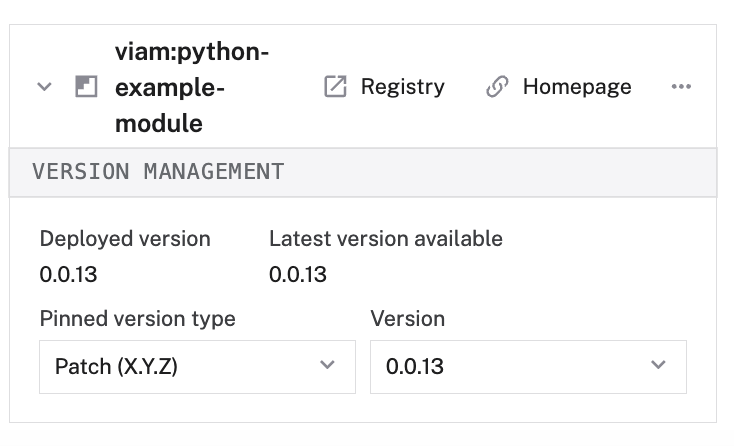
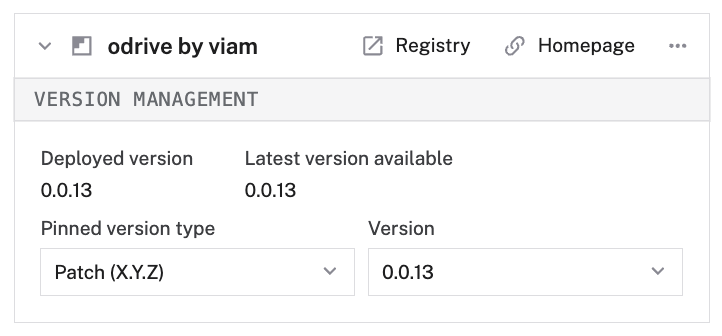
Improve modular resources configure docs

diff --git a/docs/registry/configure.md b/docs/registry/configure.md
@@ -71,18 +71,18 @@ If you are using a [rented Viam rover](/get-started/try-viam/), adding modules i
 To add a modular [component](/components/) from the Viam registry to your machine:
 
 1. Navigate to the **CONFIGURE** tab of your machine's page in [the Viam app](https://app.viam.com).
-2. Click the **+** icon next to your machine part in the left-hand menu and select **Component**.
+2. Click the **+** (Create) icon next to your machine part in the left-hand menu and select **Component**.
 3. Browse the list of available component types, and select the specific modular component you'd like to add.
 
-   {{<imgproc src="registry/configure/add-component-by-category.png" resize="400x" declaredimensions=true alt="The add a component modal showing results for the intel realsense module when searching by the category 'camera'">}}
+   {{<imgproc src="registry/configure/add-component-by-category.png" resize="500x" style="max-width: 400px" declaredimensions=true alt="The add a component modal showing results for the intel realsense module when searching by the category 'camera'">}}
 
    You can also start typing to search for a module by name or to narrow down your search results.
 
-   {{<imgproc src="registry/configure/add-component-by-name.png" resize="400x" declaredimensions=true alt="The add a component modal showing results for the intel realsense module when searching by the name 'realsense'">}}
+   {{<imgproc src="registry/configure/add-component-by-name.png" resize="500x" style="max-width: 400px" declaredimensions=true alt="The add a component modal showing results for the intel realsense module when searching by the name 'realsense'">}}
 
 4. After selecting the modular component, enter a name for your modular component and click **Create** to add it to your machine's component configuration.
 
-   {{<imgproc src="registry/configure/add-component-screen.png" resize="400x" declaredimensions=true alt="The add a component modal showing the intel realsense module pane, with the 'Add module' button shown">}}
+   {{<imgproc src="registry/configure/add-component-screen.png" resize="500x" style="max-width: 400px" declaredimensions=true alt="The add a component modal showing the intel realsense module pane, with the 'Add module' button shown">}}
 
    Be sure the modular component you select supports the [platform](/fleet/cli/#using-the---platform-argument) you intend to use it with, such as `linux arm64`.
    You can see which platforms the module supports at bottom of the module information screen before you add it.
@@ -93,7 +93,7 @@ If the component requires you to configure specific **Attributes**, navigate to 
 Click on the **...** menu and select **Go to homepage** to view the specific attribute requirements on the module's GitHub page.
 
 To delete a modular component, navigate to the component's card on the **CONFIGURE** tab.
-Click on the **...** and click **Delete**.
+Click on the **...** icon and click **Delete**.
 Confirm your selection.
 
 ### Add a modular service from the Viam registry
@@ -104,15 +104,15 @@ To add a modular [service](/services/) from the Viam registry to your machine:
 2. Click the **+** icon next to your machine part in the left-hand menu and select **Service**.
 3. Browse the list of available service types and select the specific modular service you'd like to add.
 
-   {{<imgproc src="registry/configure/add-service-by-category.png" resize="400x" declaredimensions=true alt="The add a component modal showing results for the mlmodelservice triton module when searching by the category 'ML Model'">}}
+   {{<imgproc src="registry/configure/add-service-by-category.png" resize="500x" style="max-width: 400px" declaredimensions=true alt="The add a component modal showing results for the mlmodelservice triton module when searching by the category 'ML Model'">}}
 
    You can also start typing to search for a module by name or to narrow down your search results.
 
-   {{<imgproc src="registry/configure/add-service-by-name.png" resize="400x" declaredimensions=true alt="The add a component modal showing results for the mlmodelservice triton module when searching by the name 'triton'">}}
+   {{<imgproc src="registry/configure/add-service-by-name.png" resize="500x" style="max-width: 400px" declaredimensions=true alt="The add a component modal showing results for the mlmodelservice triton module when searching by the name 'triton'">}}
 
 4. After selecting the modular service, enter a name for your modular service and click **Create** to add it to your machine's service configuration.
 
-   {{<imgproc src="registry/configure/add-service-screen.png" resize="400x" declaredimensions=true alt="The add a component modal showing the mlmodelservice triton module pane, with the 'Add module' button shown">}}
+   {{<imgproc src="registry/configure/add-service-screen.png" resize="500x" style="max-width: 400px" declaredimensions=true alt="The add a component modal showing the mlmodelservice triton module pane, with the 'Add module' button shown">}}
 
    Be sure the modular service you select supports the [platform](/fleet/cli/#using-the---platform-argument) you intend to use it with, such as `linux arm64`.
    You can see which platforms the module supports at bottom of the module information screen before you add it.
@@ -123,7 +123,7 @@ If the component requires you to configure specific **Attributes**, navigate to 
 Click on the **...** menu and select **Go to homepage** to view the specific attribute requirements on the module's GitHub page.
 
 To delete a modular service, navigate to the service's card on the **CONFIGURE** tab.
-Click on the **...** and click **Delete**.
+Click on the **...** menu and click **Delete**.
 Confirm your selection.
 
 ### Add additional modular resources from a registry module
@@ -133,7 +133,13 @@ Once you have [added a module](#add-a-modular-resource-from-the-viam-registry) f
 Follow the same steps as when you added the first modular resource, clicking **Create** and **Component** or **Service** as applicable.
 You will be prompted to click **Add module** again while configuring the resource, though no duplicate module will be added to the `modules` section of the configuration.
 
-If you prefer to use JSON, the following properties are available for modular resources:
+## Edit the configuration of a module from the Viam registry
+
+### Edit modular resources
+
+You can edit the configuration of the modular resource or resources you have added from your module at the card matching the `name` you gave the resource when adding on the **CONFIGURE** tab.
+
+If you prefer to use JSON, the following properties are available for all modular resources:
 
 <!-- prettier-ignore -->
 | Name | Type | Inclusion | Description |
@@ -209,18 +215,18 @@ The custom model is configured as a component with the name "my-realsense".
 {{% /tab %}}
 {{% /tabs %}}
 
-## Edit the configuration of a module from the Viam registry
+### Edit the module
 
-Once you have added a modular resource to your machine, you can view and edit the configuration of the underlying module from the **CONFIGURE** tab:
+You can also view and edit the configuration of their underlying module from the **CONFIGURE** tab:
 
 1. Navigate to the **CONFIGURE** tab of your machine's page in [the Viam app](https://app.viam.com).
-2. Scroll to the card with the `namespace` of the organization that published the module and the `:name` of the module, as indicated by its page in the [registry](https://app.viam.com/registry).
+2. Scroll to the card with the name of the module, as indicated by its page in the [registry](https://app.viam.com/registry).
 
 This is the **Registry module** card.
 This pane lists the deployed version of the module and the latest version available.
 Here, [configure how a module updates](#configure-version-update-management-for-a-registry-module).
 
-{{<imgproc src="registry/configure/deployed-module-with-component.png" resize="400x" declaredimensions=true alt="The module card">}}
+{{<imgproc src="registry/configure/deployed-module-with-component.png" style="max-width: 400px" resize="500x" declaredimensions=true alt="The module card">}}
 
 You can also use JSON mode to [configure environment variables](#use-environment-variables-with-a-registry-module) for your module.
 
@@ -385,7 +391,7 @@ See the instructions to [compile your module into an executable](/registry/creat
 To add a local module on your machine, first add its module, then the component or service it implements:
 
 1. Navigate to the **CONFIGURE** tab of your machine's page in [the Viam app](https://app.viam.com).
-2. Click the **+** icon next to your machine part in the left-hand menu and select **Local module**, then **Local module**.
+2. Click the **+** (Create) icon next to your machine part in the left-hand menu and select **Local module**, then **Local module**.
 3. Enter a **Name** for this instance of your modular resource.
 4. Enter the [module's executable path](/registry/create/#compile-or-package-your-module).
    This path must be the absolute path to the executable on your machine's filesystem.
@@ -397,7 +403,7 @@ To add a local module on your machine, first add its module, then the component 
 
 6. Now, stay on the **CONFIGURE** tab of your machine's page on [the Viam app](https://app.viam.com).
 
-   - Click the **+** icon next to your machine part in the left-hand menu and select **Local module**.
+   - Click the **+** (Create) icon next to your machine part in the left-hand menu and select **Local module**.
    - Then, select **Local component** or **Local service**.
 
 7. On the **Create** menu for a **Local component** or **Local service**:
